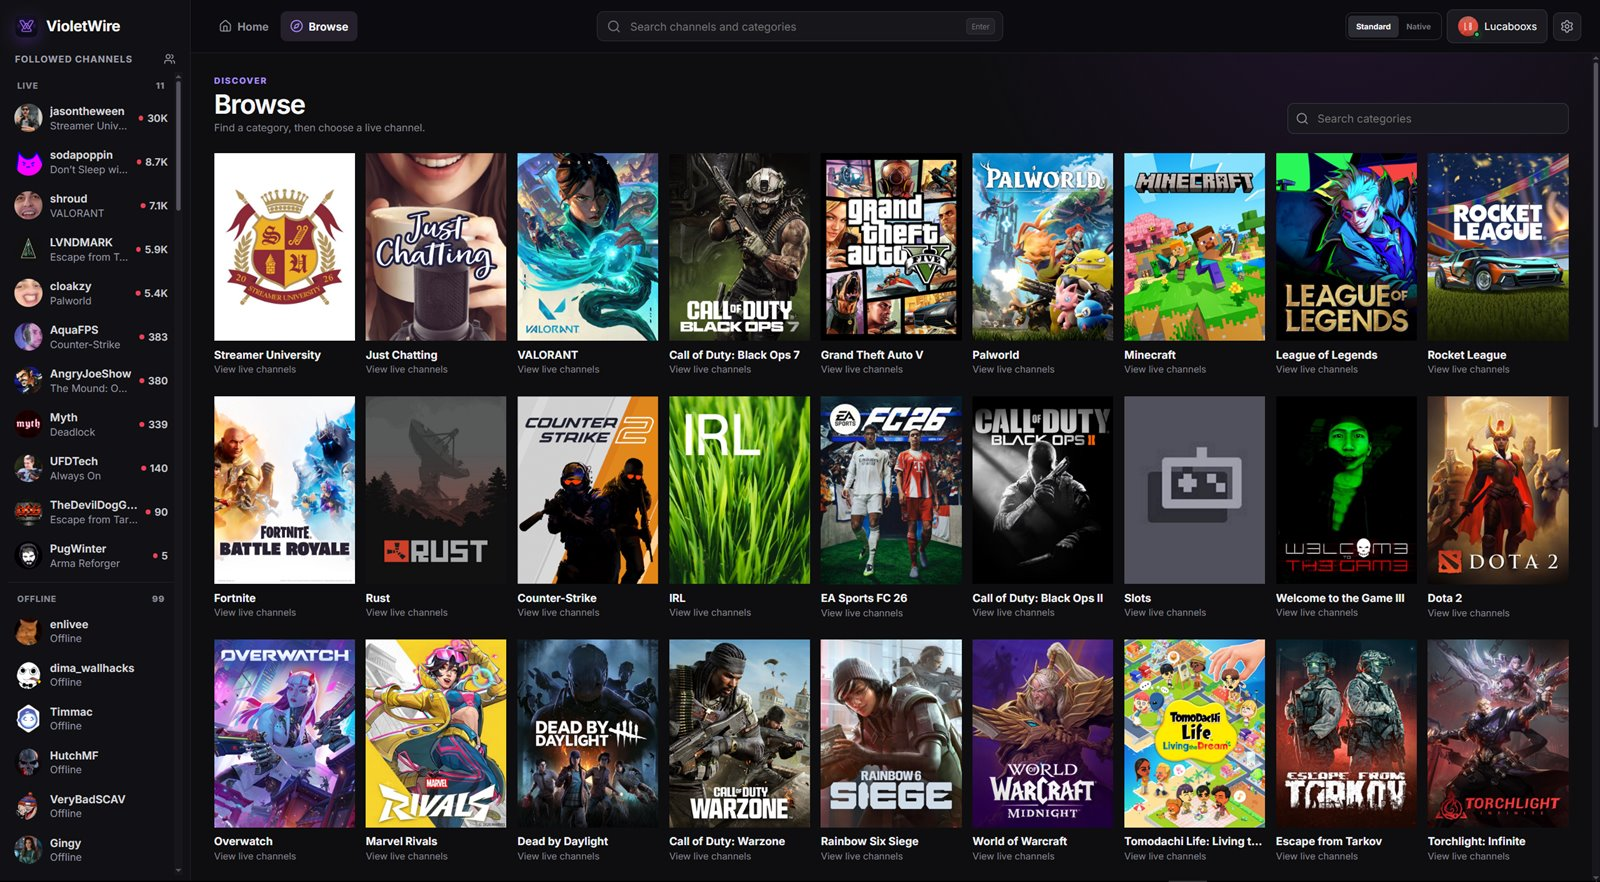
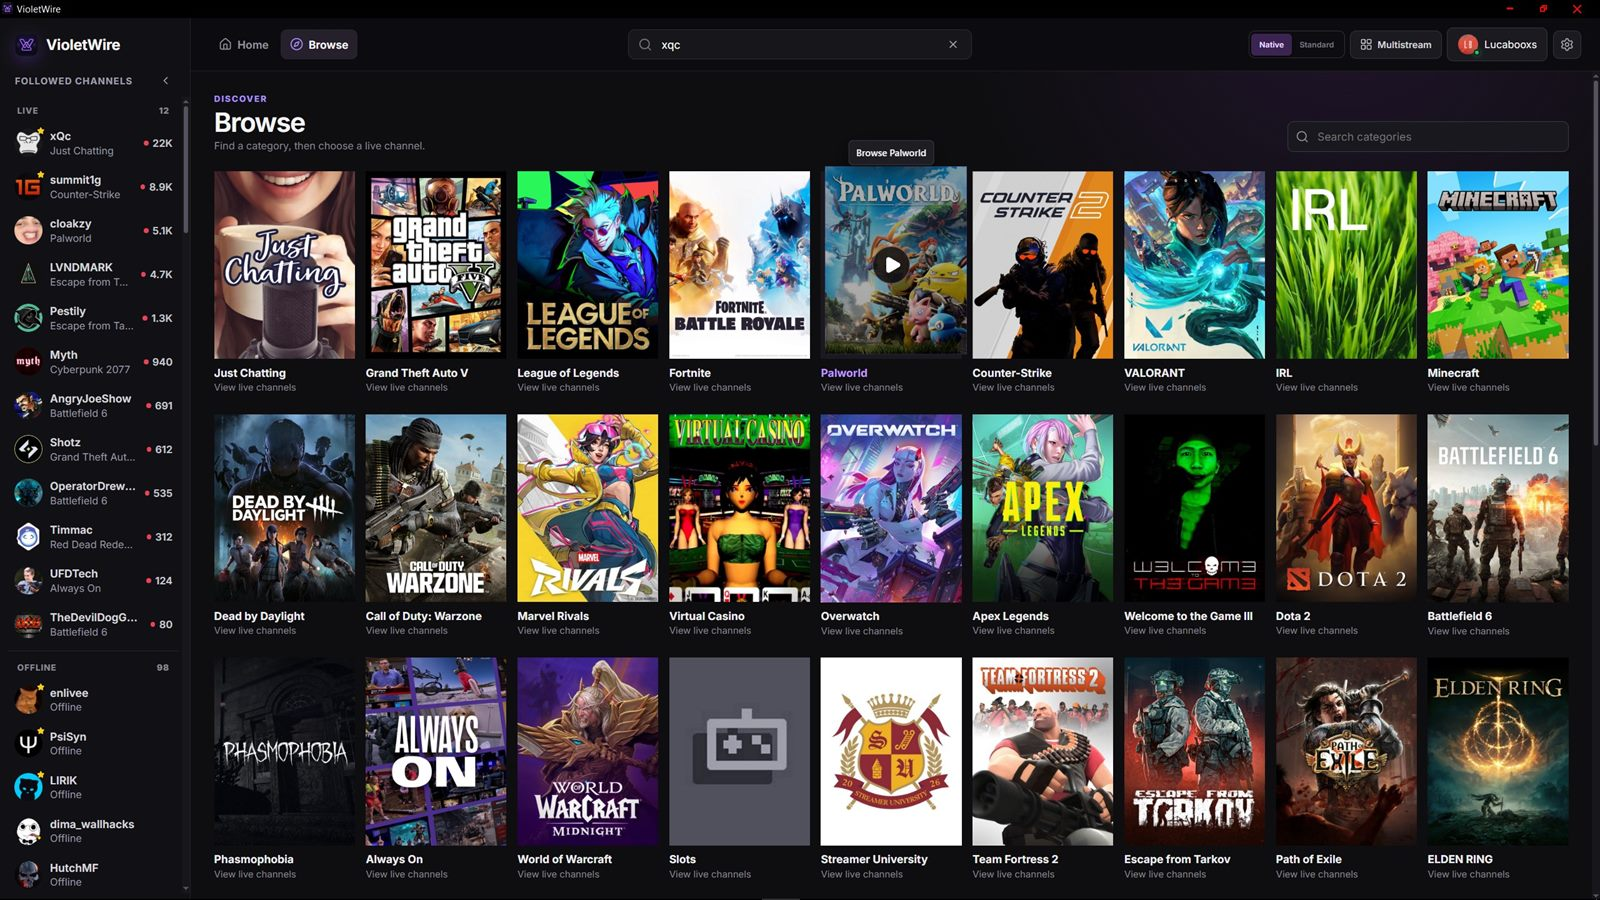
Refresh the screenshots and add multistream
Replaces all four screenshots with current 2560x1440 captures and adds a
multistream one, so the headline feature is finally shown. The sources are
now JPEG rather than PNG, so the README and the site's lightbox links move
to .jpg with them.

The multistream shot gets a full-width gallery card; four tiles shrunk into
a half-width column were unreadable.

Web-sized copies are re-encoded at quality 82 instead of 86. JPEG sources
carry compression artifacts that are expensive to re-encode, so 86 produced
files nearly as large as the 2560px originals and defeated the point of the
second tier.

diff --git a/docs/index.html b/docs/index.html
@@ -511,6 +511,12 @@
         background: #08080b;
       }
 
+      /* The multistream grid is four small tiles, so it needs the full row to
+         stay legible rather than sharing a two-up column. */
+      .shot-card.wide {
+        grid-column: 1 / -1;
+      }
+
       .shot-card figcaption {
         padding: 15px 18px;
         border-top: 1px solid var(--border);
@@ -1053,7 +1059,7 @@
           </div>
 
           <div class="gallery">
-            <figure class="shot-card" tabindex="0" role="button" data-full="screenshots/home.png">
+            <figure class="shot-card" tabindex="0" role="button" data-full="screenshots/home.jpg">
               <img
                 src="assets/home.jpg"
                 alt="VioletWire home screen listing followed live channels as cards with thumbnails, titles, categories, and viewer counts"
@@ -1067,7 +1073,7 @@
               </figcaption>
             </figure>
 
-            <figure class="shot-card" tabindex="0" role="button" data-full="screenshots/browse.png">
+            <figure class="shot-card" tabindex="0" role="button" data-full="screenshots/browse.jpg">
               <img
                 src="assets/browse.jpg"
                 alt="VioletWire browse page showing a grid of Twitch categories with box art and viewer counts"
@@ -1081,7 +1087,7 @@
               </figcaption>
             </figure>
 
-            <figure class="shot-card" tabindex="0" role="button" data-full="screenshots/standard-player.png">
+            <figure class="shot-card" tabindex="0" role="button" data-full="screenshots/standard-player.jpg">
               <img
                 src="assets/standard-player.jpg"
                 alt="VioletWire playing a stream in the standard Twitch player with chat docked beside it"
@@ -1095,7 +1101,7 @@
               </figcaption>
             </figure>
 
-            <figure class="shot-card" tabindex="0" role="button" data-full="screenshots/native-player.png">
+            <figure class="shot-card" tabindex="0" role="button" data-full="screenshots/native-player.jpg">
               <img
                 src="assets/native-player.jpg"
                 alt="VioletWire playing a stream in its experimental Native player with chat docked beside it"
@@ -1106,6 +1112,20 @@
               <figcaption>
                 <strong>Native player</strong>
                 <span>Experimental playback via Streamlink and mpv</span>
+              </figcaption>
+            </figure>
+
+            <figure class="shot-card wide" tabindex="0" role="button" data-full="screenshots/multistream.jpg">
+              <img
+                src="assets/multistream.jpg"
+                alt="VioletWire multistream showing four streams in a two-by-two grid, with tabs above the chat panel for each channel"
+                loading="lazy"
+                width="1600"
+                height="900"
+              />
+              <figcaption>
+                <strong>Multistream</strong>
+                <span>Four streams at once, with a chat tab for each</span>
               </figcaption>
             </figure>
           </div>

diff --git a/README.md b/README.md
@@ -43,28 +43,36 @@ sponsored by Twitch, 7TV, Streamlink, or mpv.
   <tr>
     <td width="50%">
       <strong>Followed live channels</strong><br />
-      <a href="docs/screenshots/home.png">
-        <img src="docs/screenshots/home.png" alt="VioletWire home page showing followed live channels" />
+      <a href="docs/screenshots/home.jpg">
+        <img src="docs/screenshots/home.jpg" alt="VioletWire home page showing followed live channels" />
       </a>
     </td>
     <td width="50%">
       <strong>Browse categories</strong><br />
-      <a href="docs/screenshots/browse.png">
-        <img src="docs/screenshots/browse.png" alt="VioletWire browse page showing Twitch categories" />
+      <a href="docs/screenshots/browse.jpg">
+        <img src="docs/screenshots/browse.jpg" alt="VioletWire browse page showing Twitch categories" />
       </a>
     </td>
   </tr>
   <tr>
     <td width="50%">
       <strong>Standard Twitch player</strong><br />
-      <a href="docs/screenshots/standard-player.png">
-        <img src="docs/screenshots/standard-player.png" alt="VioletWire using the standard Twitch player with native chat" />
+      <a href="docs/screenshots/standard-player.jpg">
+        <img src="docs/screenshots/standard-player.jpg" alt="VioletWire using the standard Twitch player with native chat" />
       </a>
     </td>
     <td width="50%">
       <strong>Experimental Native player</strong><br />
-      <a href="docs/screenshots/native-player.png">
-        <img src="docs/screenshots/native-player.png" alt="VioletWire using its experimental Native player with native chat" />
+      <a href="docs/screenshots/native-player.jpg">
+        <img src="docs/screenshots/native-player.jpg" alt="VioletWire using its experimental Native player with native chat" />
+      </a>
+    </td>
+  </tr>
+  <tr>
+    <td colspan="2">
+      <strong>Multistream</strong><br />
+      <a href="docs/screenshots/multistream.jpg">
+        <img src="docs/screenshots/multistream.jpg" alt="VioletWire multistream showing four streams in a two-by-two grid with per-channel chat tabs" />
       </a>
     </td>
   </tr>
